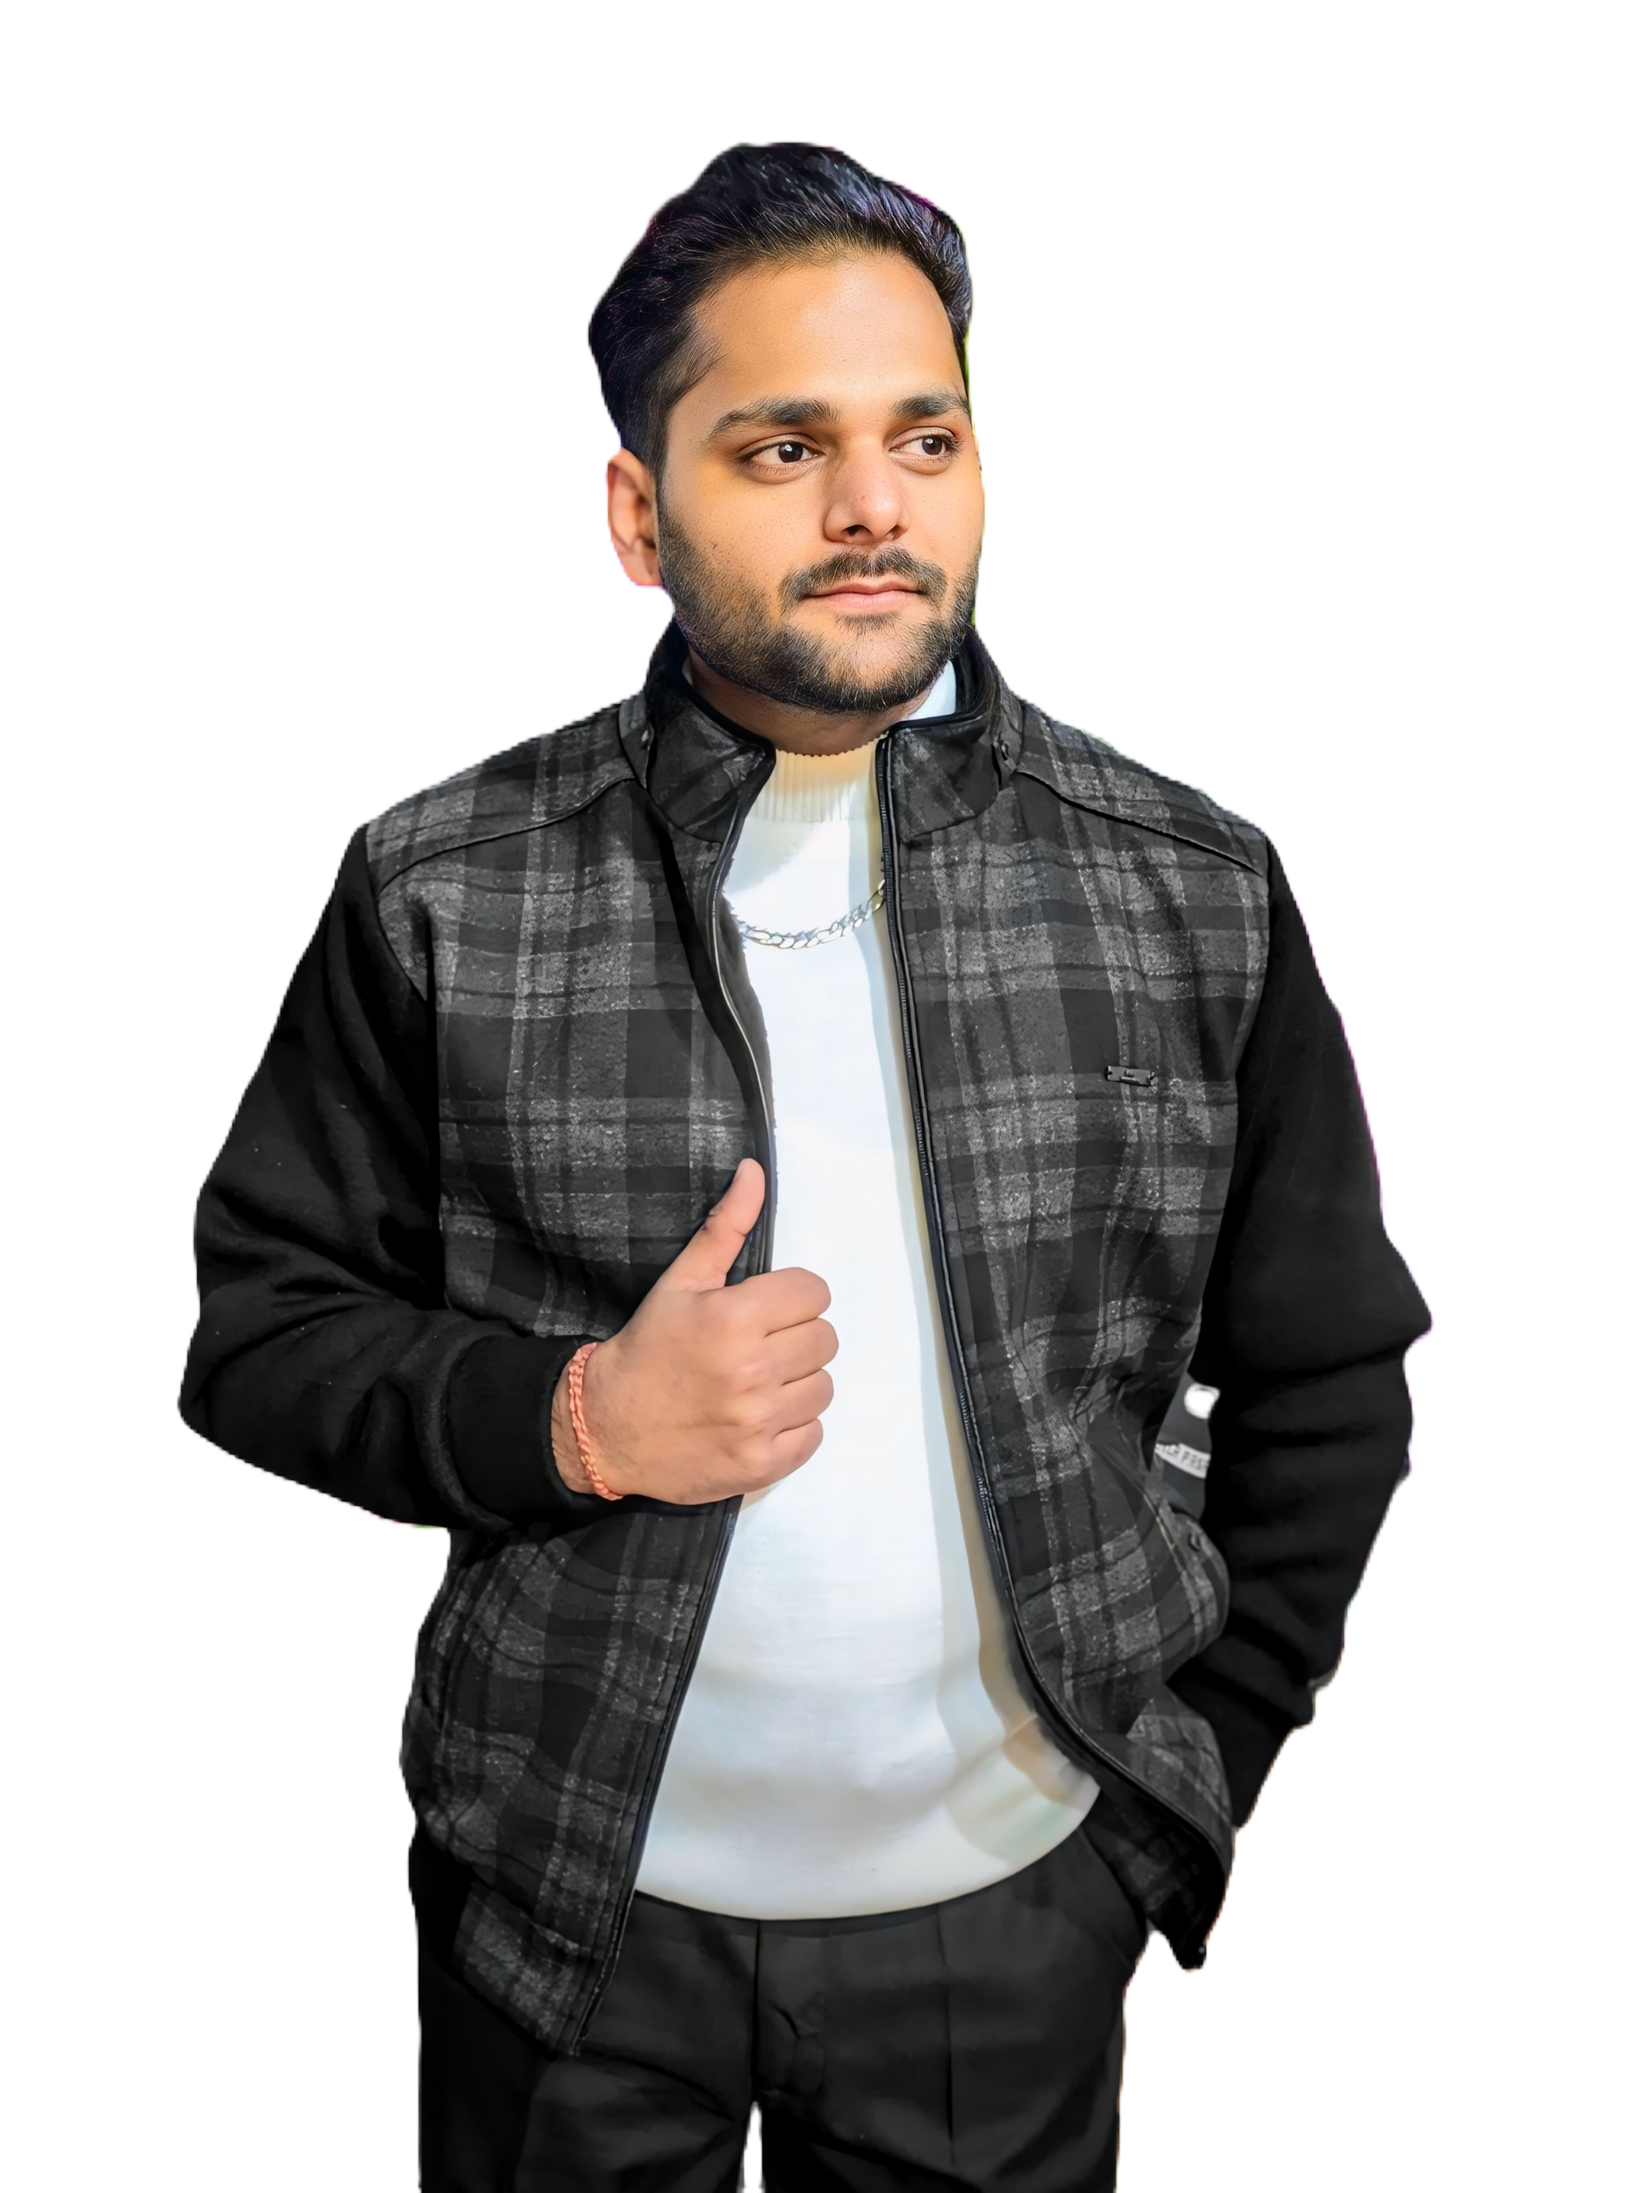
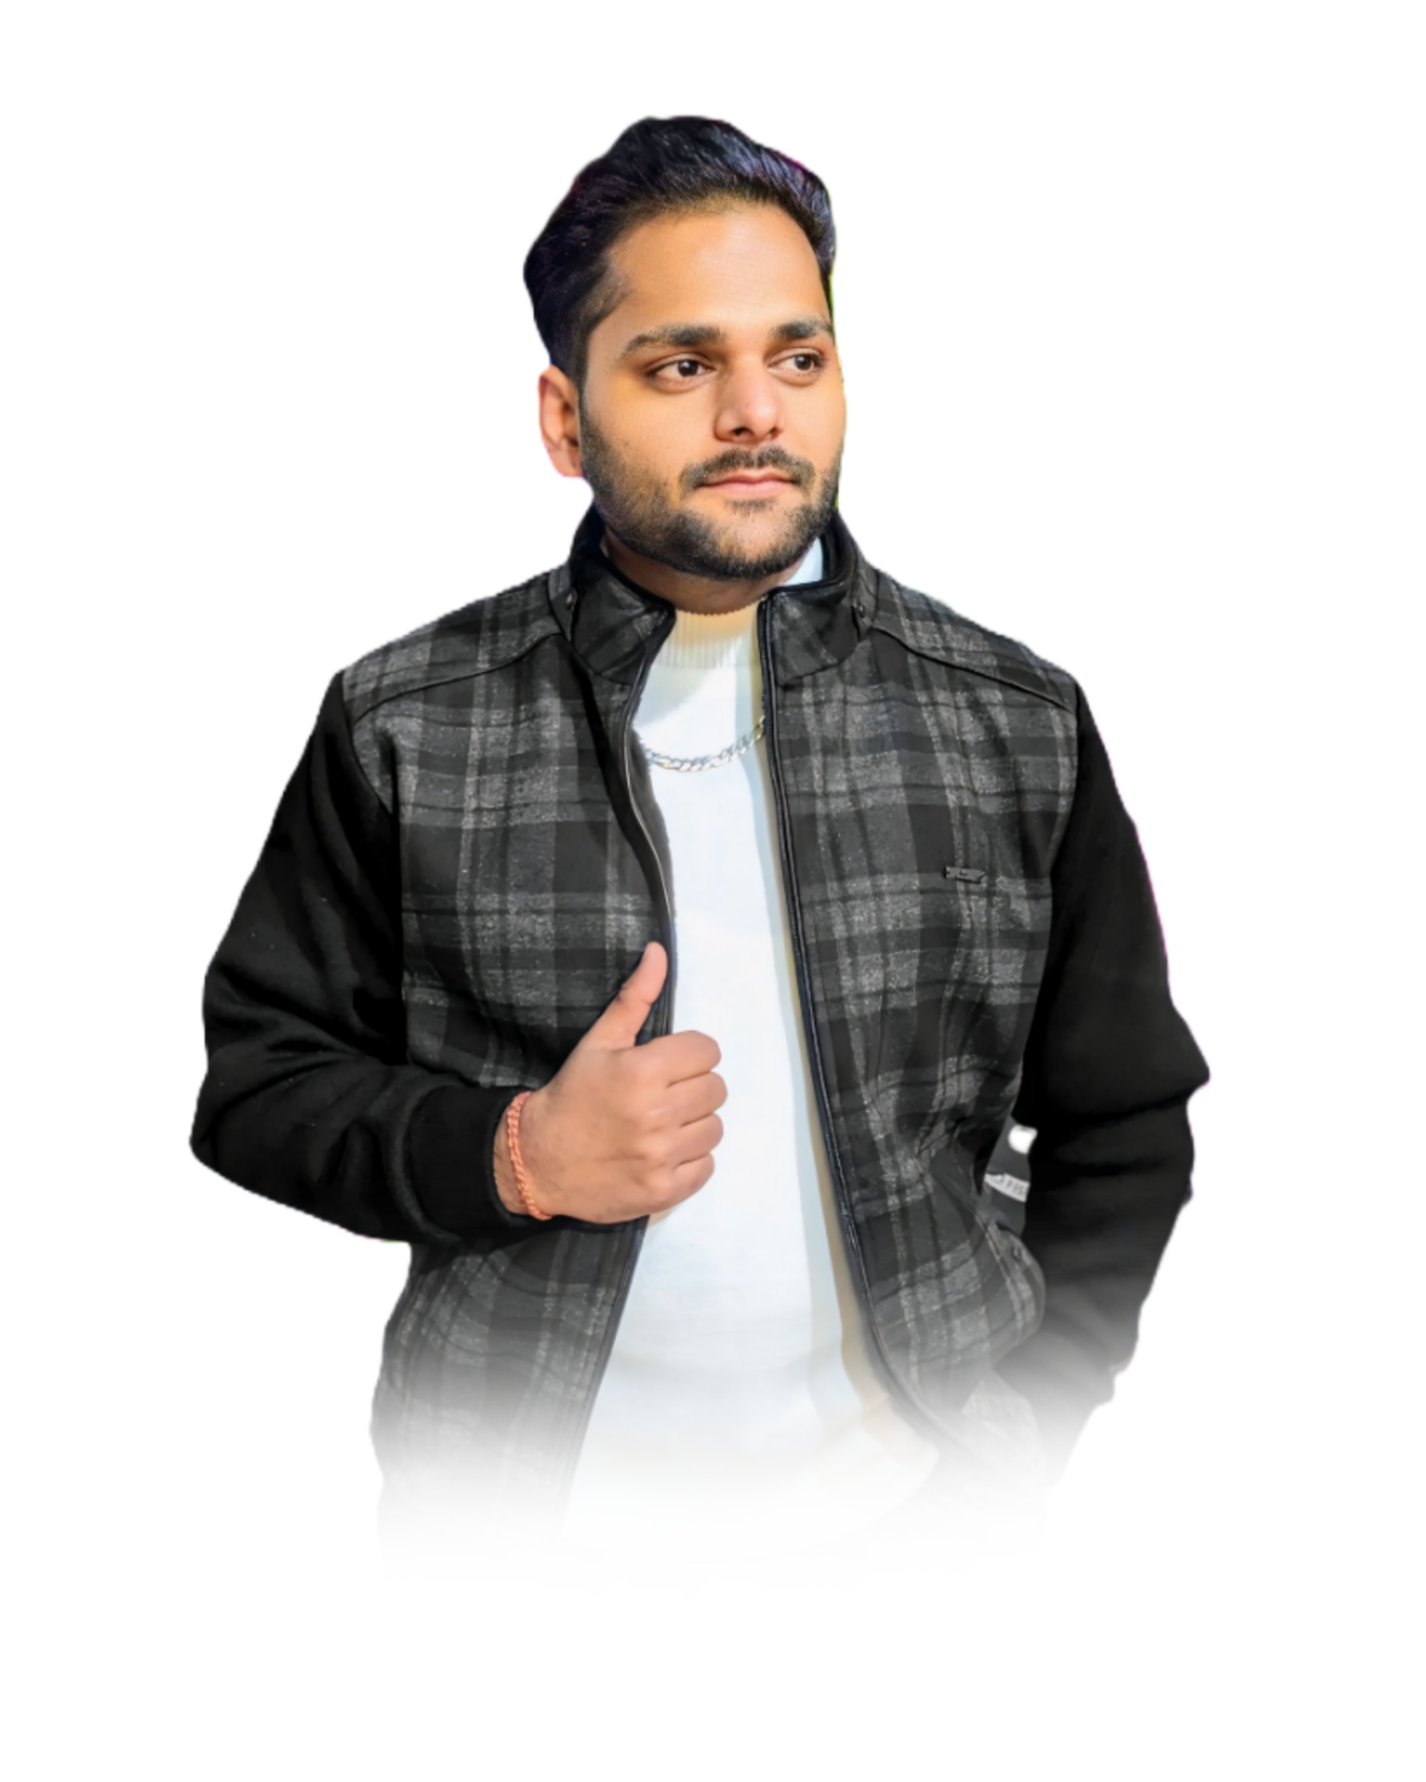
updated

Changed region(s): [[0.0928, 0.0622, 0.8665, 1.0], [0.4642, 0.6535, 0.4951, 0.6846]]

diff --git a/index.html b/index.html
@@ -84,7 +84,7 @@
 
         <div class="home-image scroll-scale">
             <div class="img-box">
-                <img src="./images/mine1.png" alt="Akshay G - Full Stack Developer" loading="lazy">
+                <img src="./images/mine.png" alt="Akshay G - Full Stack Developer" loading="lazy">
             </div>
             <!-- https://lokesh-coder.github.io/blobs.app/?e=6&gw=6&se=2&c=d1d8e0&o=0 -->
             <div class="liquid-shape">
@@ -130,7 +130,7 @@
     <!-- About ------------------------------------------------------------------------------------------------->
     <section id="about" class="about">
         <div class="img-about scroll-scale">
-            <img src="./images/mine1.png" alt="">
+            <img src="./images/mine.png" alt="">
             <div class="info-about1">
                 <span>0</span>
                 <p>Years of Experience</p>
@@ -324,14 +324,6 @@
             <span>My Recent Work</span>
             <h2>Featured Projects</h2>
         </div>
-        <div class="container">
-            <div class="fillter-buttons scroll-scale">
-                <button class="button active" data-filter="all">All</button>
-                <button class="button" data-filter="web">Frontend</button>
-                <button class="button" data-filter="fullstack">Full Stack</button>
-                <button class="button" data-filter="ui">Others</button>
-            </div>
-        </div>
 
         <div class="portfolio-gallery scroll-bottom">
             <!-- Project 1 -->
@@ -399,7 +391,7 @@
             <!-- Project 3 -->
             <div class="port-box mix fullstack" data-ref="fullstack">
                 <div class="port-image">
-                    <img src="./images/3.jpg" alt="Personal Portfolio" loading="lazy">
+                    <img src="./images/3.png" alt="Personal Portfolio" loading="lazy">
                 </div>
                 <div class="port-content">
                     <h3>Personal Portfolio</h3>
